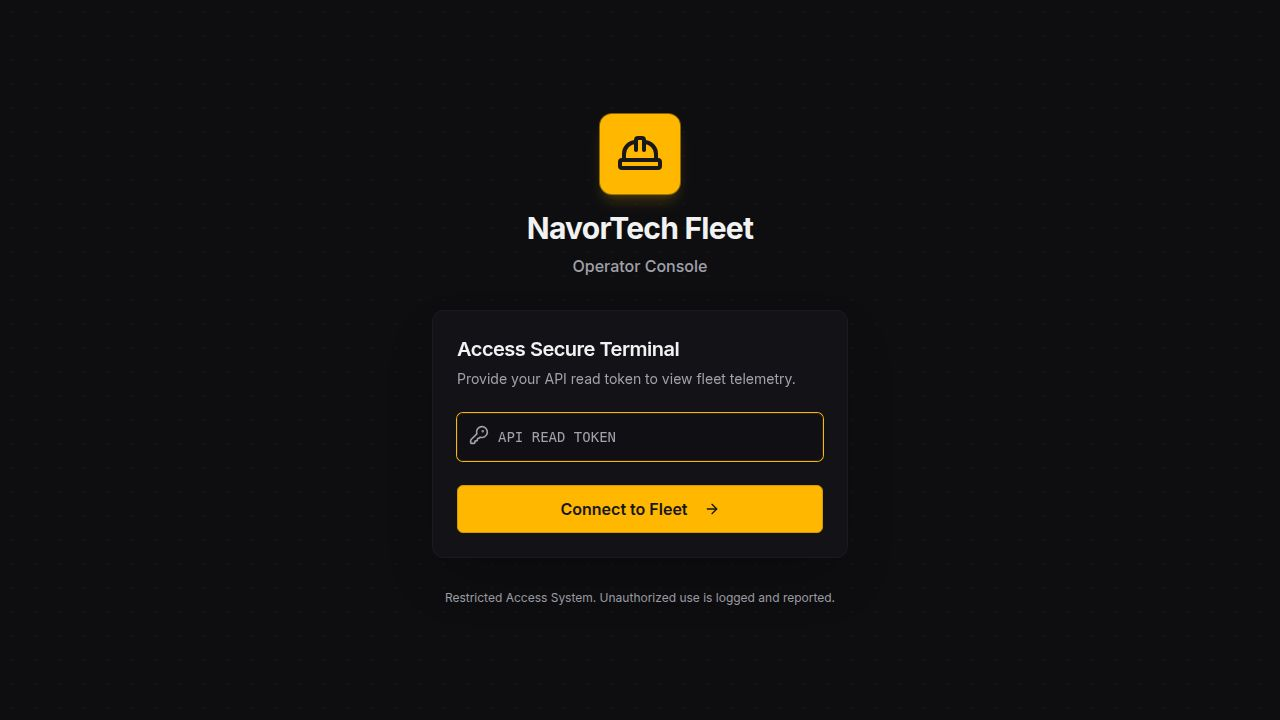
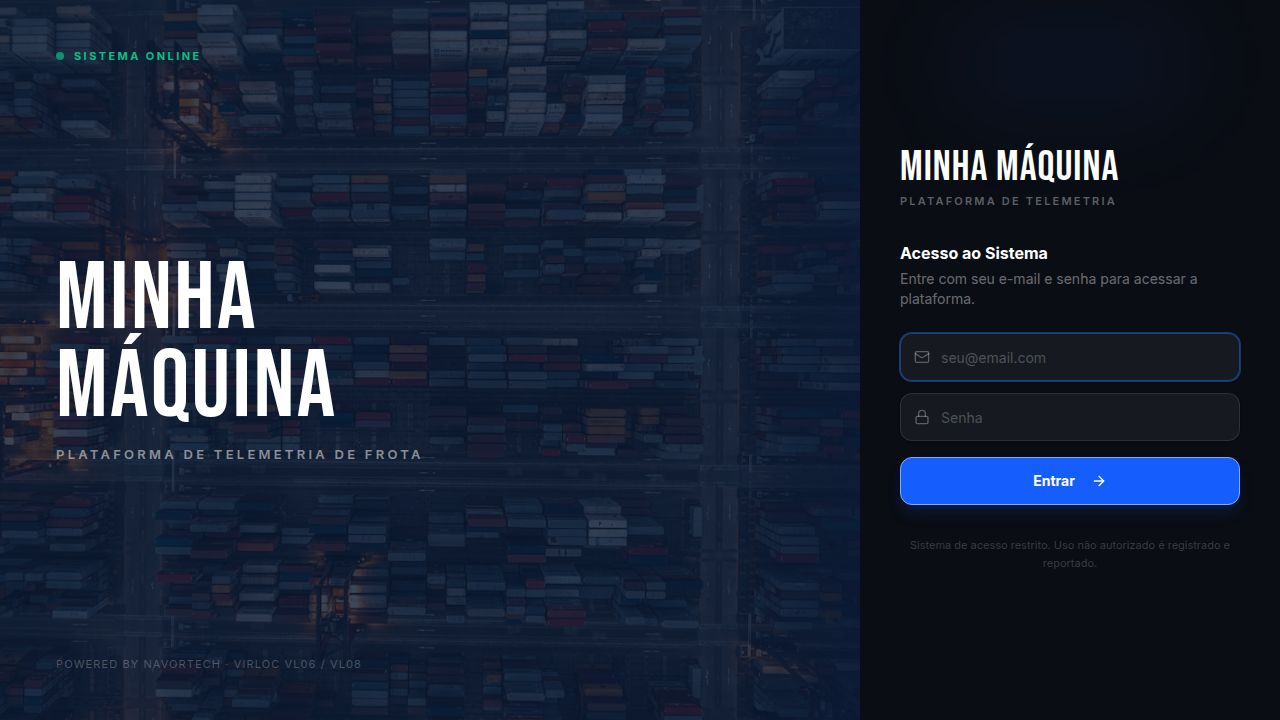
Update login page appearance with new branding and imagery
Replaces the old login page design with a new one featuring a navy overlay, a construction site image, and updated branding. Changes include modifying the page title, font, and hero panel content.

Replit-Commit-Author: Agent
Replit-Commit-Session-Id: 751ed679-e83a-447f-9ad5-04fc9d81c4fb
Replit-Commit-Checkpoint-Type: full_checkpoint
Replit-Commit-Event-Id: 5bbe60c2-658c-47ae-b7ea-433758936f52
Replit-Commit-Screenshot-Url: https://storage.googleapis.com/screenshot-production-us-central1/d2562e4a-a2d1-463e-849e-b32081564cb9/751ed679-e83a-447f-9ad5-04fc9d81c4fb/CuqNPM5
Replit-Helium-Checkpoint-Created: true

diff --git a/artifacts/dashboard/src/pages/login.tsx b/artifacts/dashboard/src/pages/login.tsx
@@ -2,8 +2,8 @@ import { useState } from "react";
 import { useLocation } from "wouter";
 import { useApiToken } from "@/lib/api-auth";
 import { useI18n } from "@/lib/i18n";
-import { Mail, Lock, ArrowRight, Cpu, MapPin, Activity, AlertCircle } from "lucide-react";
-import bobcatMarker from "@/assets/bobcat-marker.png";
+import { Mail, Lock, ArrowRight, AlertCircle } from "lucide-react";
+import bobcatSite from "@/assets/bobcat-site.jpg";
 import { Button } from "@/components/ui/button";
 import { Input } from "@/components/ui/input";
 
@@ -50,93 +50,95 @@ export default function Login() {
   };
 
   return (
-    <div className="min-h-[100dvh] w-full flex overflow-hidden bg-[#0a0d14]">
+    <div className="min-h-[100dvh] w-full flex overflow-hidden">
 
-      {/* ── Left hero panel ───────────────────────────────────────────── */}
-      <div className="hidden lg:flex flex-col flex-1 relative overflow-hidden bg-gradient-to-br from-[#0d1117] via-[#0f1922] to-[#0a0d14]">
+      {/* ── Left hero panel — photo + navy overlay ─────────────────────── */}
+      <div className="hidden lg:flex flex-col flex-1 relative overflow-hidden">
 
-        {/* Subtle dot grid */}
-        <div
-          className="absolute inset-0 opacity-[0.06]"
-          style={{ backgroundImage: "radial-gradient(circle, #f59e0b 1px, transparent 1px)", backgroundSize: "32px 32px" }}
+        {/* Background photo */}
+        <img
+          src={bobcatSite}
+          alt=""
+          aria-hidden
+          className="absolute inset-0 w-full h-full object-cover object-center select-none pointer-events-none"
+          draggable={false}
         />
 
-        {/* Amber glows */}
-        <div className="absolute bottom-16 left-1/2 -translate-x-1/2 w-[480px] h-64 bg-amber-500/10 rounded-full blur-3xl" />
-        <div className="absolute bottom-24 left-1/2 -translate-x-1/2 w-64 h-40 bg-amber-400/15 rounded-full blur-2xl" />
+        {/* Navy blue overlay — matches reference screenshot */}
+        <div className="absolute inset-0 bg-[#0b1a35]/80" />
 
-        {/* Status indicator */}
-        <div className="relative z-10 px-10 pt-10">
+        {/* Subtle vignette at the right edge to blend into login panel */}
+        <div className="absolute inset-y-0 right-0 w-32 bg-gradient-to-r from-transparent to-[#0b1a35]/60" />
+
+        {/* Content */}
+        <div className="relative z-10 flex flex-col h-full px-14 py-12 justify-between">
+
+          {/* Top: status pill */}
           <div className="flex items-center gap-2.5">
-            <div className="w-2 h-2 bg-emerald-500 rounded-full animate-pulse" />
-            <span className="text-[11px] font-bold tracking-[0.2em] uppercase text-emerald-500/90">Sistema Online</span>
+            <div className="w-2 h-2 bg-emerald-400 rounded-full animate-pulse" />
+            <span className="text-[11px] font-bold tracking-[0.22em] uppercase text-emerald-400/90">
+              Sistema Online
+            </span>
           </div>
-        </div>
 
-        {/* Giant Bobcat */}
-        <div className="relative z-10 flex-1 flex items-center justify-center px-8">
-          <div className="relative">
-            <div className="absolute -bottom-4 left-1/2 -translate-x-1/2 w-80 h-8 bg-amber-500/10 rounded-full blur-xl" />
-            <img
-              src={bobcatMarker}
-              alt="Bobcat skid-steer loader"
-              className="w-[420px] h-auto object-contain drop-shadow-2xl select-none"
-              draggable={false}
-            />
-          </div>
-        </div>
-
-        {/* Brand + feature chips */}
-        <div className="relative z-10 px-10 pb-12 space-y-6">
-          <div>
-            <h1 className="text-3xl font-black tracking-tight text-white leading-none">
-              MINHA MÁQUINA
+          {/* Centre: brand name */}
+          <div className="space-y-3">
+            <h1
+              className="text-[96px] leading-[0.92] text-white select-none tracking-wide"
+              style={{ fontFamily: "'Bebas Neue', sans-serif" }}
+            >
+              MINHA<br />MÁQUINA
             </h1>
-            <p className="text-amber-400/80 text-sm font-semibold tracking-widest uppercase mt-1.5">
+            <p className="text-[13px] font-semibold tracking-[0.25em] uppercase text-white/50">
               Plataforma de Telemetria de Frota
             </p>
           </div>
-          <div className="flex flex-wrap gap-2">
-            {[
-              { icon: <MapPin className="w-3 h-3" />, label: "Rastreamento GPS em tempo real" },
-              { icon: <Activity className="w-3 h-3" />, label: "Telemetria de equipamentos" },
-              { icon: <Cpu className="w-3 h-3" />, label: "Monitoramento VL06 / VL08" },
-            ].map(({ icon, label }) => (
-              <div
-                key={label}
-                className="flex items-center gap-1.5 px-3 py-1.5 rounded-full bg-white/5 border border-white/10 text-white/60 text-[11px] font-medium"
-              >
-                <span className="text-amber-400/80">{icon}</span>
-                {label}
-              </div>
-            ))}
-          </div>
-        </div>
 
-        <div className="absolute right-0 top-0 bottom-0 w-px bg-gradient-to-b from-transparent via-amber-500/20 to-transparent" />
+          {/* Bottom: powered by */}
+          <p className="text-[11px] text-white/25 tracking-widest uppercase">
+            Powered by NavorTech · VIRLOC VL06 / VL08
+          </p>
+        </div>
       </div>
 
       {/* ── Right login panel ─────────────────────────────────────────── */}
       <div className="w-full lg:w-[420px] lg:min-w-[420px] flex flex-col items-center justify-center px-8 py-12 bg-[#0a0d14] relative">
 
-        <div className="absolute top-0 left-1/2 -translate-x-1/2 w-64 h-32 bg-amber-500/5 rounded-full blur-2xl pointer-events-none" />
+        <div className="absolute top-0 left-1/2 -translate-x-1/2 w-64 h-32 bg-blue-500/5 rounded-full blur-2xl pointer-events-none" />
 
         <div className="w-full max-w-[340px] space-y-8 relative z-10">
 
-          {/* Mobile brand */}
-          <div className="lg:hidden flex flex-col items-center text-center space-y-4">
-            <img src={bobcatMarker} alt="Bobcat" className="w-36 h-auto object-contain drop-shadow-xl" draggable={false} />
-            <div>
-              <h1 className="text-2xl font-black text-white tracking-tight">MINHA MÁQUINA</h1>
-              <p className="text-amber-400/70 text-xs font-semibold tracking-widest uppercase mt-1">Plataforma de Telemetria</p>
-            </div>
+          {/* Mobile brand (shown only < lg) */}
+          <div className="lg:hidden flex flex-col items-center text-center space-y-2">
+            <h1
+              className="text-5xl text-white tracking-wide leading-none"
+              style={{ fontFamily: "'Bebas Neue', sans-serif" }}
+            >
+              MINHA MÁQUINA
+            </h1>
+            <p className="text-white/40 text-[11px] font-semibold tracking-widest uppercase">
+              Plataforma de Telemetria
+            </p>
+          </div>
+
+          {/* App name on panel (desktop) */}
+          <div className="hidden lg:block space-y-1">
+            <h1
+              className="text-[42px] leading-none text-white tracking-wide"
+              style={{ fontFamily: "'Bebas Neue', sans-serif" }}
+            >
+              MINHA MÁQUINA
+            </h1>
+            <p className="text-white/35 text-[11px] font-semibold tracking-[0.2em] uppercase">
+              Plataforma de Telemetria
+            </p>
           </div>
 
           {/* Form */}
           <div className="space-y-6">
-            <div className="space-y-1.5">
-              <h2 className="text-xl font-bold text-white">{t.login.cardTitle}</h2>
-              <p className="text-sm text-white/45">Entre com seu e-mail e senha para acessar a plataforma.</p>
+            <div className="space-y-1">
+              <h2 className="text-base font-bold text-white">{t.login.cardTitle}</h2>
+              <p className="text-sm text-white/40">Entre com seu e-mail e senha para acessar a plataforma.</p>
             </div>
 
             <form onSubmit={handleSubmit} className="space-y-3">
@@ -146,7 +148,7 @@ export default function Login() {
                 <Input
                   type="email"
                   placeholder="[email redacted]"
-                  className="pl-10 h-12 bg-white/5 border-white/10 text-white placeholder:text-white/25 focus-visible:ring-amber-500/50 focus-visible:border-amber-500/50 rounded-xl"
+                  className="pl-10 h-12 bg-white/5 border-white/10 text-white placeholder:text-white/25 focus-visible:ring-blue-500/40 focus-visible:border-blue-500/40 rounded-xl"
                   value={email}
                   onChange={(e) => { setEmail(e.target.value); setError(""); }}
                   autoComplete="email"
@@ -161,7 +163,7 @@ export default function Login() {
                 <Input
                   type="password"
                   placeholder="Senha"
-                  className="pl-10 h-12 bg-white/5 border-white/10 text-white placeholder:text-white/25 focus-visible:ring-amber-500/50 focus-visible:border-amber-500/50 rounded-xl"
+                  className="pl-10 h-12 bg-white/5 border-white/10 text-white placeholder:text-white/25 focus-visible:ring-blue-500/40 focus-visible:border-blue-500/40 rounded-xl"
                   value={password}
                   onChange={(e) => { setPassword(e.target.value); setError(""); }}
                   autoComplete="current-password"
@@ -179,13 +181,12 @@ export default function Login() {
               <Button
                 type="submit"
                 disabled={loading}
-                className="w-full h-12 text-sm font-bold rounded-xl bg-amber-500 hover:bg-amber-400 text-black shadow-lg shadow-amber-500/20 transition-all group disabled:opacity-60 mt-1"
+                className="w-full h-12 text-sm font-bold rounded-xl bg-blue-600 hover:bg-blue-500 text-white shadow-lg shadow-blue-900/30 transition-all group disabled:opacity-60 mt-1"
               >
                 {loading ? "Entrando…" : t.login.submit}
                 {!loading && <ArrowRight className="ml-2 w-4 h-4 group-hover:translate-x-1 transition-transform" />}
               </Button>
             </form>
-
           </div>
 
           <p className="text-center text-[11px] text-white/20 leading-relaxed">

diff --git a/artifacts/dashboard/index.html b/artifacts/dashboard/index.html
@@ -3,11 +3,11 @@
   <head>
     <meta charset="UTF-8" />
     <meta name="viewport" content="width=device-width, initial-scale=1.0, maximum-scale=1" />
-    <title>NavorTech Fleet Dashboard</title>
+    <title>MINHA MÁQUINA — Plataforma de Telemetria</title>
     <link rel="icon" type="image/svg+xml" href="/favicon.svg" />
     <link rel="preconnect" href="https://fonts.googleapis.com">
     <link rel="preconnect" href="https://fonts.gstatic.com" crossorigin>
-    <link href="https://fonts.googleapis.com/css2?family=Inter:wght@400;500;600;700&display=swap" rel="stylesheet">
+    <link href="https://fonts.googleapis.com/css2?family=Bebas+Neue&family=Inter:wght@400;500;600;700&display=swap" rel="stylesheet">
   </head>
   <body>
     <div id="root"></div>